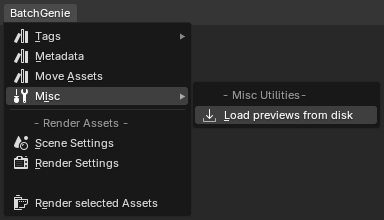
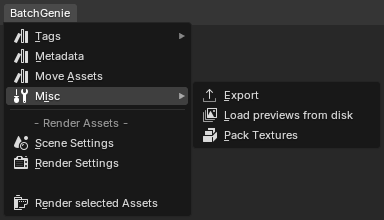
1.0.8 & misc

Changed region(s): [[0.5, 0.4091, 1.0, 0.6545]]

diff --git a/docs/extra.css b/docs/extra.css
@@ -7,6 +7,7 @@
   --main-accent-color-red: #E0425D;
   --main-accent-color-green: #15ac59;
   --main-accent-color-blue: #4952d3;
+  --main-accent-color-orange: #ffa500;
   --main-box-bg: #f1f1f1;
   --main-box-border-color: #e0e0e0;
 }
@@ -120,6 +121,9 @@
 /* Modifiers for different accent colors */
 .section-box.accent-red::before {
   background-color: var(--main-accent-color-red);
+}
+.section-box.accent-orange::before {
+  background-color: var(--main-accent-color-orange);
 }
 .section-box.accent-green::before {
   background-color: var(--main-accent-color-green);

diff --git a/docs/index.md b/docs/index.md
@@ -9,59 +9,31 @@ Welcome to **BatchGenie**, an add-on designed to simplify and automate common As
 
 # Key Features
 
-<!-- - **Batch Import PBR Textures**: BatchGenie streamlines PBR texture importing with a single click, offering robust customization options for bulk imports, saving you time and effort while tailoring imports to your preferences.
-- **Batch Render Asset Previews**: Create high-quality previews for your Assets, including materials, objects, and collections, to showcase them externally or enhance your Asset library, ensuring it is visually informative and easy to browse.
-- **Batch Utilities**: Utilize a variety of batch processing utilities designed to handle common tasks efficiently such as changing material or node attributes.
-
-    <br>
-    **For a full breakdown of all features, check the "Full Feature List" section at the bottom.** -->
-
-<!-- <div class="grid cards" markdown>
-
--   :material-image-multiple:{ .lg .middle } __Batch Import PBR Textures__
-
-    ---
-
-    BatchGenie streamlines PBR texture importing with a single click, offering robust customization options for bulk imports, saving you time and effort while tailoring imports to your preferences.
-
-    [:material-arrow-right: Read more](#importing-textures)
-
--   :material-camera:{ .lg .middle } __Batch Render Asset Previews__
-
-    ---
-
-    Create high-quality previews for your Assets, including materials, objects, and collections, to showcase them externally or enhance your Asset library, ensuring it is visually informative and easy to browse.
-
-    [:material-arrow-right: Read more](#importing-textures)
-
--   :material-tools:{ .lg .middle } __Batch Utilities__
-
-    ---
-
-    Utilize a variety of batch processing utilities designed to handle common tasks efficiently such as changing material or node attributes.
-
-    [:material-arrow-right: Read more](#importing-textures)
-
-</div> -->
-
 <div class="grid cards grid_custom" markdown>
 
--   :material-image-multiple:{ .lg .middle style="color:var(--main-accent-color-red)" } __Batch Import PBR Textures__
+-   :material-image-multiple:{ .lg .middle style="color:var(--main-accent-color-red)" } __Batch Import__
 
     ---
 
-    BatchGenie streamlines PBR texture importing with a single click, offering robust customization options for bulk imports, saving you time and effort while tailoring imports to your preferences.
+    Streamlined PBR texture importing with a single click, offering robust customization options for bulk imports to save time and effort while tailoring the process to your preferences.
 
 
--   :material-camera:{ .lg .middle style="color:var(--main-accent-color-green)" } __Batch Render Asset Previews__
+-   :material-export-variant:{ .lg .middle style="color:var(--main-accent-color-orange)" } __Batch Export__
 
     ---
 
-    Create high-quality previews for your Assets, including materials, objects, and collections, to showcase them externally or enhance your Asset library, ensuring it is visually informative and easy to browse.
+    Batch export objects, collections, and materials directly from the Asset Browser, streamlining your workflow and ensuring your assets are ready for use in any project.
 
 </div>
 
 <div class="grid cards grid_custom"  markdown>
+
+-   :material-camera:{ .lg .middle style="color:var(--main-accent-color-green)" } __Batch Render Assets__
+
+    ---
+
+    Create high-quality previews for your Assets, including materials, objects, and collections, to showcase them externally or enhance your Asset library, ensuring it is visually informative and easy to browse.
+
 
 -   :material-tools:{ .lg .middle style="color:var(--main-accent-color-blue)" } __Batch Utilities__
 
@@ -76,8 +48,6 @@ Welcome to **BatchGenie**, an add-on designed to simplify and automate common As
 
 
 
-
-
 <div class="section-box accent-red" markdown>
 
 ## :material-image-multiple:{style="color:var(--main-accent-color-red)"} Importing Textures
@@ -85,11 +55,6 @@ Welcome to **BatchGenie**, an add-on designed to simplify and automate common As
 Importing is as simple as one click, or you can dive into extensive customization if needed. It supports over 16 texture types, with fully automated setup for nodes, color space adjustments, and other configurations.
 
 ![Example Import](images/import_example.gif){ .img-box  align=left }
-
-
-<!-- <div style="float:right">
-asd
-</div> -->
 
 ![Import Settings](images/import_settings_expanded.png){ .img-box align=right }
 
@@ -123,7 +88,6 @@ Import any map and connect it to your chosen input via a dropdown menu. Supports
 
 ---
 
-
 *More import related settings can be found in the add-on preferences.*
 
 <div style="clear:both"></div>
@@ -133,10 +97,30 @@ Import any map and connect it to your chosen input via a dropdown menu. Supports
   <figcaption>Example of an import with various additional accessory nodes.</figcaption>
 </figure>
 
-
 <div style="clear:both"></div>
 
 </div> <!-- Textures section end -->
+
+
+
+
+<div class="section-box accent-orange" markdown>
+
+## :material-export-variant:{style="color:var(--main-accent-color-orange)"} Exporting
+
+Batch export **objects**, **collections**, and **materials**. Work either directly from the 3D viewport or via the **Asset Browser**, it's as easy as point and click.
+
+![Material Example](images/export_panel.gif){ .img-box  }
+![Material Example](images/export_settings.png){ .img-box  }
+
+
+![Material Example](images/export_folder_structure_example.png){ .img-box align=left }
+
+:material-chevron-left: You can either export your items into one folder or keep the Outliner Hierarchy if needed.
+
+<div style="clear:both"></div>
+
+</div> <!-- Export section end -->
 
 
 
@@ -162,10 +146,9 @@ You can either utilize Batch Rendering through the BatchGenie panel, or selectiv
 Easy controls for light and background settings to tailor the images to your liking.
 
 
+![Scene Settings](images/render_asset_previews_scene_settings[narrow].png){ .img-box align=left }
 
-![Scene Settings](images/render_asset_previews_scene_settings.png){ .img-box align=left }
-
-![Render Settings](images/render_asset_previews_render_settings.gif){ .img-box align=left }
+![Render Settings](images/render_asset_previews_render_settings.gif){ .img-box }
 
 <div style="clear:right"></div>
 
@@ -175,13 +158,14 @@ Easy controls for light and background settings to tailor the images to your lik
 
 :material-chevron-down: **Lighting and Studio presets** available, and you can add your own custom HDRIs to the list.
 
-![Render Settings](images/render_asset_previews_lighting_presets.png){ .img-box  style="margin-bottom:-.75em" }
+![Render Settings](images/render_asset_previews_lighting_presets.png){ .img-box  style="margin-top:-.75em; margin-bottom:-.75em" }
 
 ![Render Settings](images/render_asset_previews_studio_presets.png){ .img-box }
 
 <div style="clear:both"></div>
 
 </div> <!-- Render section end -->
+
 
 
 
@@ -333,14 +317,22 @@ Move Assets to different Asset Catalogs to help you organize your Asset Library.
 
 ---
 
-### Asset Browser - Load previews from disk
+### Asset Browser - Misc Utilities
 
 ![Load previews from disk Utility](images/utilities_asset_browser_misc.png){ .img-box align=left }
 
-Load custom Asset Preview images from a specified directory. When assets are selected in the Asset Browser, this tool checks for image files in the selected folder that match the names of the Assets.
 
+#### Export
 
+Export selected assets, see the 'Export' section for more details.
 
+#### Load previews from disk
+
+Batch load custom Asset Preview images from a specified directory.
+
+#### Pack Textures
+
+This feature packs all associated textures into their respective blend files, ensuring that your assets retain their appearance without the need for external texture files.
 
 <div style="clear:both"></div>
 
@@ -360,6 +352,7 @@ There are also versions of the '**Replace Shader Nodes**' and '**Find Zero Stren
 Extensive documentation is available [here](https://roberddd.github.io/BatchGenie){target="_blank"}, along with a detailed video instruction to guide you through the features.
 
 For details about the current version and updates, check the [Changelog](https://batchgenie.roberd.net/changelog/){target="_blank"}.
+
 
 
 
@@ -384,7 +377,7 @@ For details about the current version and updates, check the [Changelog](https:/
     - Supports a mix of subfolders and files, allowing processing of textures located in both the root folder and subfolders.
 
 - **Exporting**:
-    - Batch exporting of objects, collections & materials to blend files.
+    - Batch export objects, collections, and materials to blend files with ease. This feature is directly integrated into the Asset Browser for seamless access and functionality
 
 - **Asset Preview Rendering**:
     - One click batch rendering making the process swift and efficient.
@@ -407,4 +400,5 @@ For details about the current version and updates, check the [Changelog](https:/
     - Metadata Adjustment: Easily adjust metadata in the Asset Browser, allowing batch additions of description, license, copyright, and author.
     - Move Asset: Organize your Assets efficiently by moving them to the correct Asset Catalogs with a single click, without having to open each individual Asset Blend file.
     - Load previews from disk:  Directly load custom asset preview images from a specified directory.
+    - Pack Textures: Easily pack textures for assets in the Asset Browser with a single click.
     - Plus a few other small utilities!
